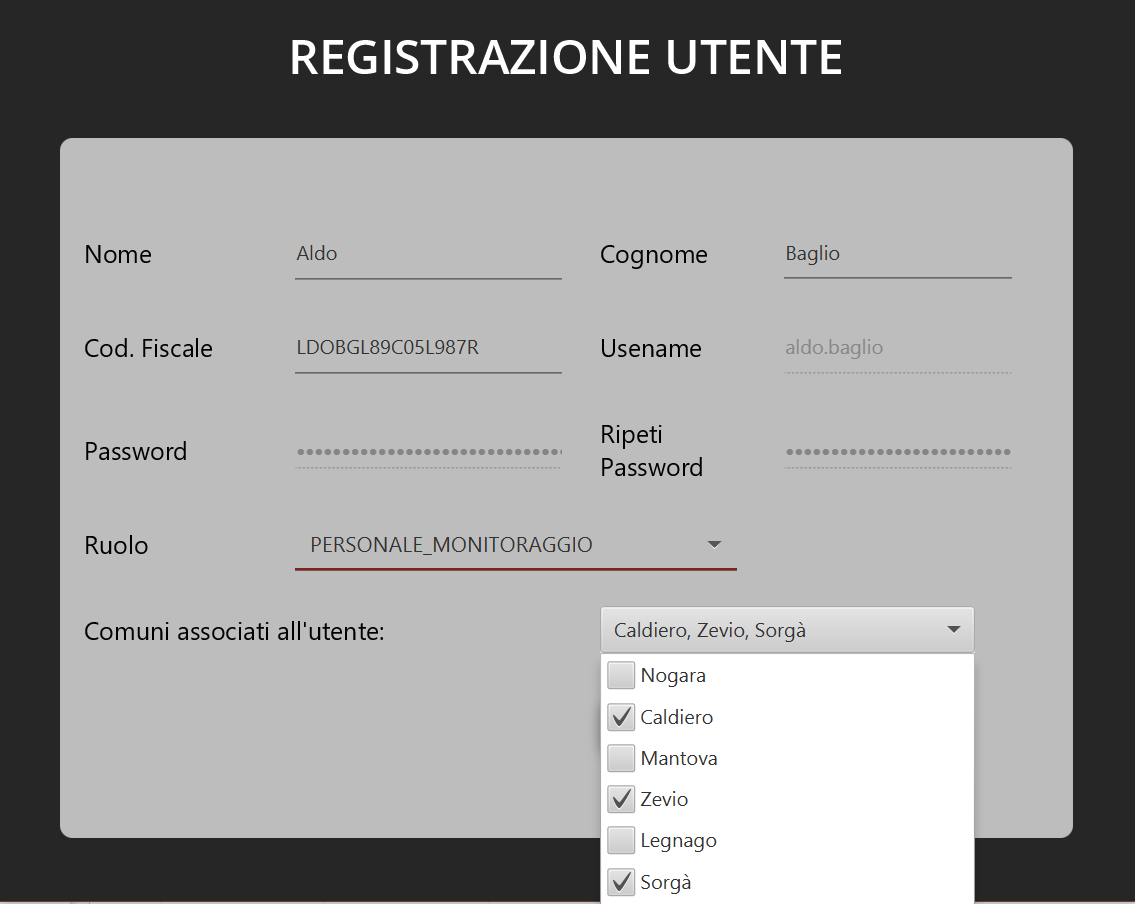
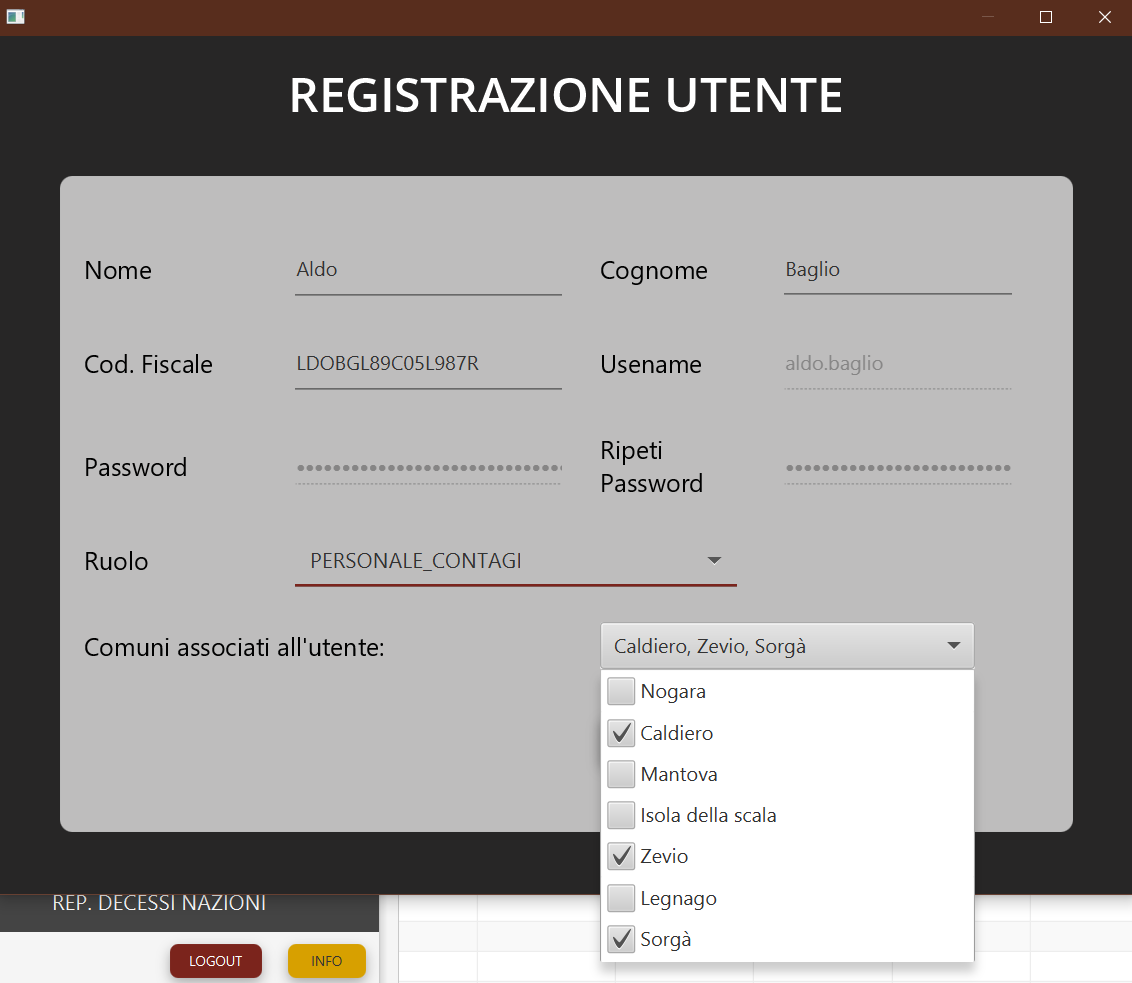
fix img, added comment

diff --git a/documentation/documentation.md b/documentation/documentation.md
@@ -390,9 +390,6 @@ C'è la possibilità inoltre, di registrare un nuovo utente con un determinato r
 
 ## Dashboard
 
-###### Dashboard iniziale ADMIN
-<img src="/img/main_dashboard_app.PNG"/>
-
 In base al ruolo dell'utente che effettua il login, verranno caricate dinamicamente lo voci di menu nella dashboard a seconda dei privilegi:
 
 - *PERSONALE MONITORAGGIO*
@@ -422,6 +419,8 @@ Inoltre è stato anche pensato di implementare nella prossima relase la funziona
 
 <img src="/img/registrazione_utente_app.PNG"/>Anche il modulo *utenti* segue la stessa logica di aggiunta/modifica, permettendo inoltre di associare e rimuovere i comuni di competenza per ogni personale a contratto.
 Nella prossima realease del prototipo è stato già pensato di implementare anche la modifica della password per gli utenti.
+
+*NOTA:* un utente può avere comuni associati solo se ricopre il ruolo di Personale Contagi o di ADMIN.
 
 ## Export
 Per i moduli comuni, regioni , province, utenti è stato implementata una funzione di export dati in modo dinamico nei diversi formati: **TXT**, **CSV**, **XLS**.
